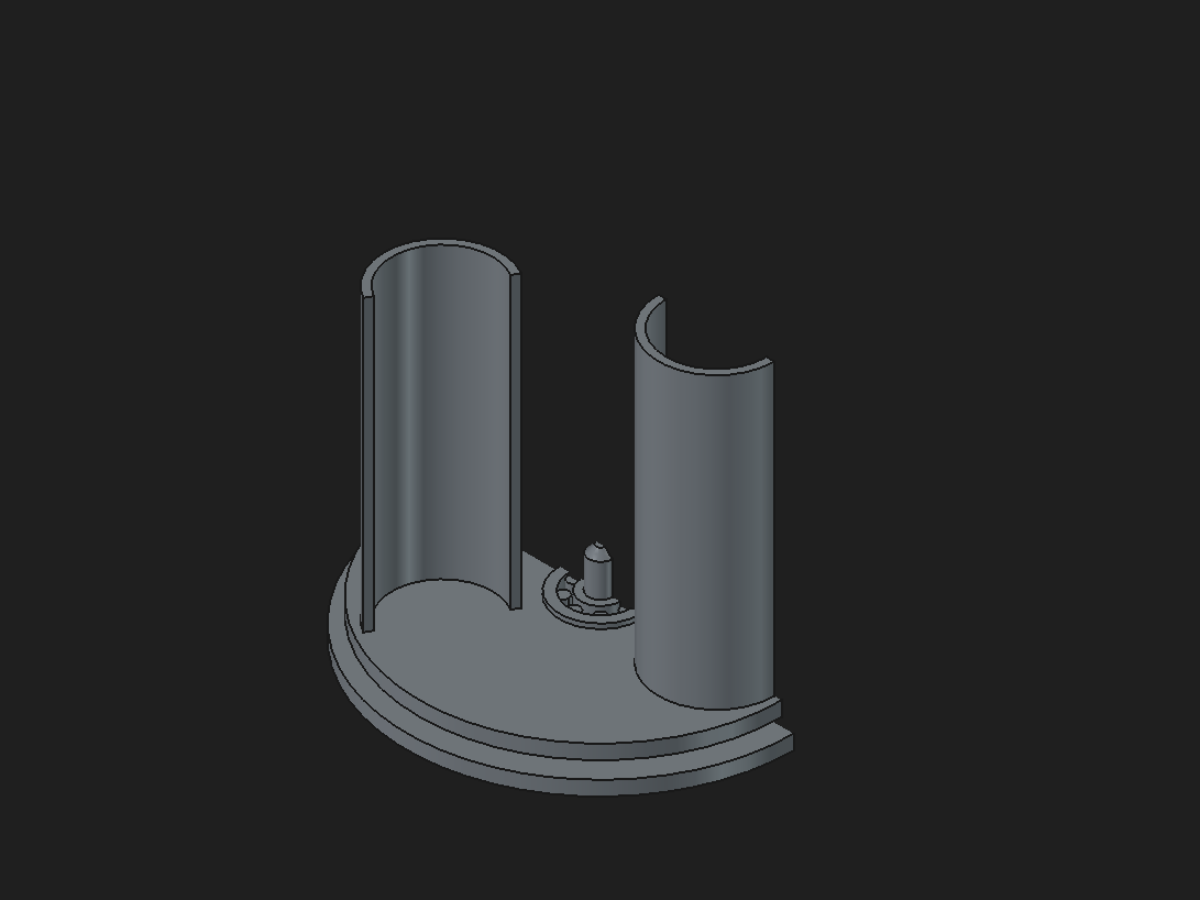
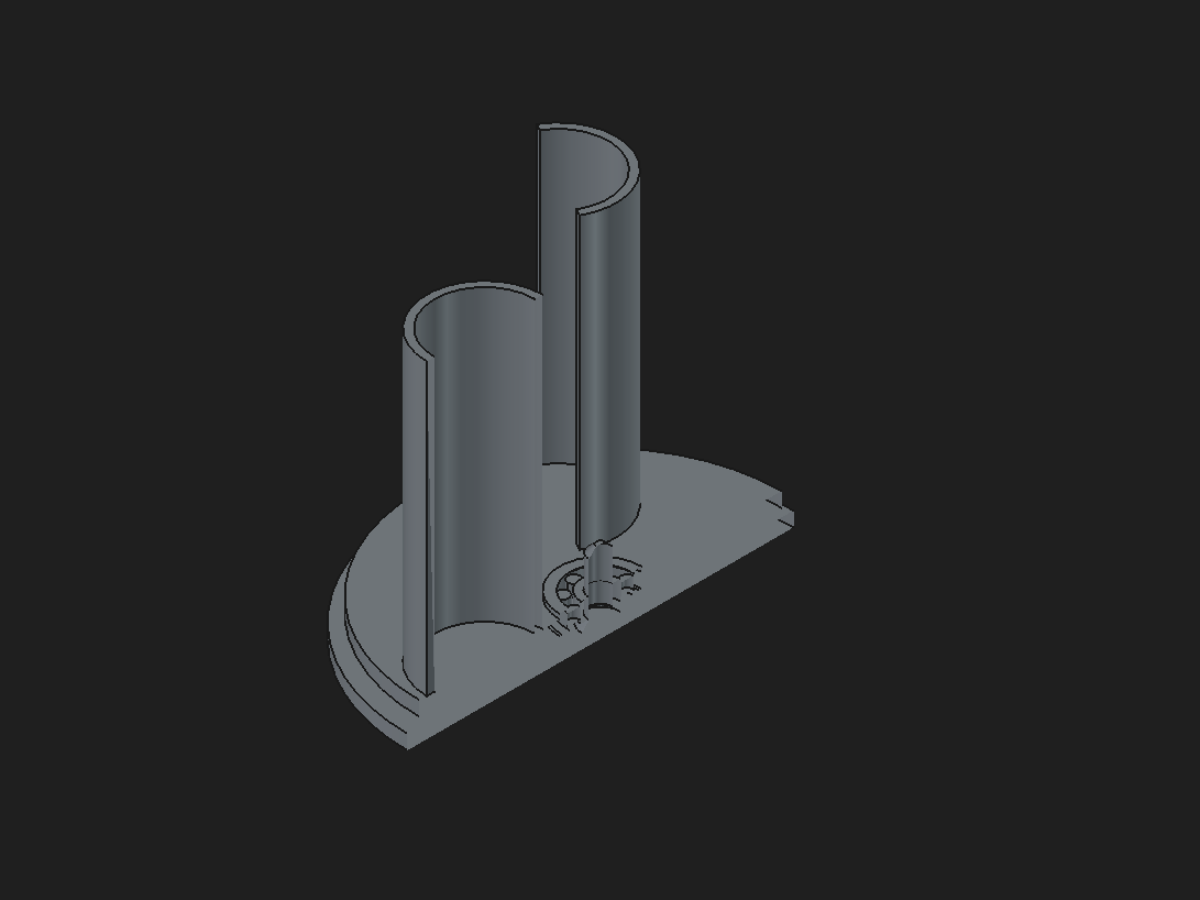
Vira a câmera do corte para a face seccionada
A captura de corte mostrava o lado externo da metade mantida: o
setViewDirection do FreeCAD 1.1 é um no-op silencioso e a câmera
axonométrica padrão fica do mesmo lado do material preservado no plano
XZ. A orientação agora é aplicada por setCameraOrientation com a matriz
de eixos da câmera montada explicitamente, com a animação desligada
durante o ajuste (senão a captura sai no meio do voo) e restaurada junto
com a câmera original. A câmera fica sempre no lado descartado do corte,
em qualquer plano e flip, e o resultado declara camera_faces_cut. As
capturas da vitrine foram regeneradas com o ângulo correto.

Changed region(s): [[0.2775, 0.1244, 0.6783, 0.9022]]

diff --git a/src/talos/adapters/freecad/context.py b/src/talos/adapters/freecad/context.py
@@ -736,6 +736,9 @@ class ContextReadsMixin:
         )
         result = None
         cleanup_required = False
+        original_camera = active_view.getCamera()
+        original_animation = bool(active_view.isAnimationEnabled())
+        camera_faces_cut = False
         try:
             cleanup_required = True
             toggle_clipping_plane(1, False, True, placement)
@@ -743,12 +746,33 @@ class ContextReadsMixin:
             self._sync_gui()
             if not bool(has_clipping_plane()):
                 raise RuntimeError("The FreeCAD clipping plane could not be activated.")
+            capture_view_name = checked_view
+            set_camera_orientation = getattr(
+                active_view, "setCameraOrientation", None
+            )
+            if checked_view == "isometric" and set_camera_orientation is not None:
+                x_cam, y_cam, z_cam = self._section_camera_axes(
+                    checked_plane, flip
+                )
+                matrix = app.Matrix(
+                    x_cam[0], y_cam[0], z_cam[0], 0.0,
+                    x_cam[1], y_cam[1], z_cam[1], 0.0,
+                    x_cam[2], y_cam[2], z_cam[2], 0.0,
+                    0.0, 0.0, 0.0, 1.0,
+                )
+                # A orientacao anima por padrao; sem desligar, a captura sai
+                # no meio do voo da camera.
+                active_view.setAnimationEnabled(False)
+                set_camera_orientation(app.Rotation(matrix))
+                camera_faces_cut = True
+                capture_view_name = "current"
             result = self.capture_view(
                 width=checked_width,
                 height=checked_height,
-                view=checked_view,
+                view=capture_view_name,
                 fit=fit,
             )
+            result["view"] = checked_view
         finally:
             restore_error = None
             if cleanup_required:
@@ -759,6 +783,8 @@ class ContextReadsMixin:
                     self._sync_gui()
                     if bool(has_clipping_plane()):
                         raise RuntimeError("The clipping plane remains active.")
+                    self._restore_camera(active_view, original_camera)
+                    active_view.setAnimationEnabled(original_animation)
                 except Exception as exc:
                     restore_error = exc
             if restore_error is not None:
@@ -775,6 +801,7 @@ class ContextReadsMixin:
             "flip": flip,
             "normal": list(normal),
             "kept_side": "positive_normal" if flip else "negative_normal",
+            "camera_faces_cut": camera_faces_cut,
             "capped": False,
             "clipping_restored": True,
         }
@@ -799,6 +826,45 @@ class ContextReadsMixin:
         if flip:
             normal = tuple(-component for component in normal)
         return points[plane], normal
+
+    @staticmethod
+    def _section_camera_axes(
+        plane: str,
+        flip: bool,
+    ) -> tuple[
+        tuple[float, float, float],
+        tuple[float, float, float],
+        tuple[float, float, float],
+    ]:
+        """Camera axes for an isometric view that always faces the cut face.
+
+        The clipping plane discards the side its normal points to, so the
+        camera belongs on that discarded side looking into the kept half;
+        otherwise the capture shows the intact back of the model instead of
+        the section. Returns the camera X (right), Y (up) and Z (toward the
+        camera) axes; setViewDirection is a silent no-op in FreeCAD 1.1, so
+        the orientation must be applied via setCameraOrientation.
+        """
+
+        axis = {"xy": 2, "xz": 1, "yz": 0}[plane]
+        length = math.sqrt(3.0)
+        z_cam = [1.0 / length] * 3
+        if flip:
+            z_cam[axis] = -z_cam[axis]
+        up = (0.0, 0.0, 1.0) if abs(z_cam[2]) < 0.99 else (0.0, 1.0, 0.0)
+        x_cam = [
+            up[1] * z_cam[2] - up[2] * z_cam[1],
+            up[2] * z_cam[0] - up[0] * z_cam[2],
+            up[0] * z_cam[1] - up[1] * z_cam[0],
+        ]
+        norm = math.sqrt(sum(component**2 for component in x_cam))
+        x_cam = [component / norm for component in x_cam]
+        y_cam = [
+            z_cam[1] * x_cam[2] - z_cam[2] * x_cam[1],
+            z_cam[2] * x_cam[0] - z_cam[0] * x_cam[2],
+            z_cam[0] * x_cam[1] - z_cam[1] * x_cam[0],
+        ]
+        return tuple(x_cam), tuple(y_cam), tuple(z_cam)
 
     @staticmethod
     def _capture_dimensions(width: int, height: int) -> tuple[int, int]:

diff --git a/tests/unit/test_capture_views.py b/tests/unit/test_capture_views.py
@@ -362,10 +362,21 @@ class FakeVector(tuple):
         return super().__new__(cls, (float(x), float(y), float(z)))
 
 
+class FakeMatrix(tuple):
+    def __new__(cls, *values: float):
+        return super().__new__(cls, tuple(float(value) for value in values))
+
+
 class FakeRotation:
-    def __init__(self, source: FakeVector, target: FakeVector) -> None:
-        self.source = source
-        self.target = target
+    def __init__(self, source=None, target=None) -> None:
+        if target is None and isinstance(source, FakeMatrix):
+            self.matrix = tuple(source)
+            self.source = None
+            self.target = None
+        else:
+            self.matrix = None
+            self.source = source
+            self.target = target
 
 
 class FakePlacement:
@@ -377,6 +388,7 @@ class FakePlacement:
 FAKE_APP = SimpleNamespace(
     Vector=FakeVector,
     Rotation=FakeRotation,
+    Matrix=FakeMatrix,
     Placement=FakePlacement,
 )
 
@@ -412,6 +424,42 @@ def test_section_capture_applies_plane_and_restores_clipping(
     assert result["kept_side"] == "positive_normal"
     assert result["capped"] is False
     assert result["clipping_restored"] is True
+
+
+def test_section_capture_camera_faces_the_cut(
+    tmp_path: Path,
+    monkeypatch: pytest.MonkeyPatch,
+) -> None:
+    monkeypatch.setenv("TALOS_VISUAL_CACHE", str(tmp_path))
+
+    class DirectionalView(FakeActiveView):
+        def __init__(self) -> None:
+            super().__init__()
+            self.camera_matrices: list[tuple[float, ...]] = []
+
+        def setCameraOrientation(self, rotation) -> None:
+            self.camera_matrices.append(rotation.matrix)
+            self.camera = "cut-facing"
+
+    view = DirectionalView()
+    install_fake_gui(monkeypatch, view)
+    context = ContextReadsMixin()
+    monkeypatch.setattr(context, "_modules", lambda: (FAKE_APP, None), raising=False)
+
+    result = context.capture_section_view(plane="xz", offset=0)
+
+    # Sem flip o corte descarta o lado +Y: a coluna Z da matriz (eixo da
+    # camera apontando do modelo para ela) deve ter componente Y positivo.
+    matrix = view.camera_matrices[0]
+    assert matrix[6] > 0, matrix
+    assert result["camera_faces_cut"] is True
+    assert result["view"] == "isometric"
+    assert view.camera == "original-camera"
+    assert view.animation_enabled is True
+
+    flipped = context.capture_section_view(plane="xz", offset=0, flip=True)
+    assert view.camera_matrices[1][6] < 0, view.camera_matrices
+    assert flipped["camera_faces_cut"] is True
 
 
 def test_section_capture_failure_removes_temporary_clipping(

diff --git a/src/talos/core/tool_catalog/context.py b/src/talos/core/tool_catalog/context.py
@@ -421,7 +421,9 @@ def context_tool_specs() -> tuple[ToolSpec, ...]:
             "Capture a non-destructive visual section through the active model "
             "using the XY, XZ or YZ plane. Offset is measured from the global "
             "origin along the plane normal. The default keeps the negative-normal "
-            "side; flip=true keeps the positive-normal side. This is viewport "
+            "side; flip=true keeps the positive-normal side. With the default "
+            "isometric view the camera is placed on the discarded side so the "
+            "cut face always faces the capture. This is viewport "
             "clipping, so cut faces are not capped. The temporary clipping plane, "
             "camera and visual overlays are restored before return. Refuses to "
             "replace a clipping plane already configured by the user.",